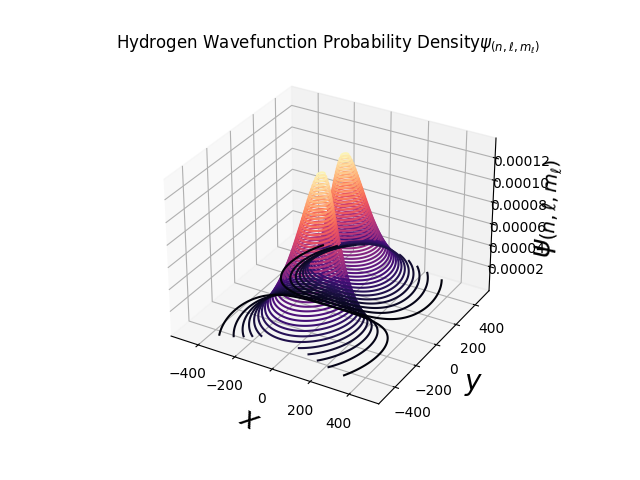
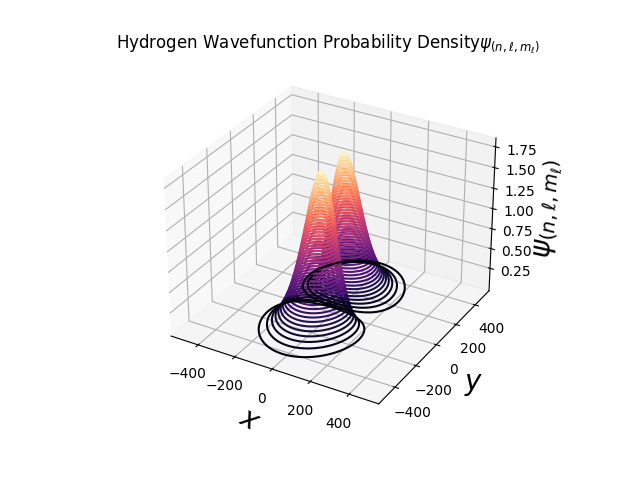
Changed error in function call for example

Changed region(s): [[0.25, 0.1875, 0.875, 0.7812], [0.25, 0.625, 0.2812, 0.6562]]

diff --git a/hydrogen_wavefunction.py b/hydrogen_wavefunction.py
@@ -143,4 +143,5 @@ main_Plot_Wavefunction(np.real(complex_Wave_Function(n, l, ml)), 'Real')
 main_Plot_Wavefunction(np.imag(complex_Wave_Function(n, l, ml)), 'Complex')
 
 #Probability Density Plot
-main_Plot_Wavefunction(np.imag(complex_Wave_Function(n, l, ml)), 'Probability Density')
+main_Plot_Wavefunction(probability_Density(complex_Wave_Function(n, l, ml)), 'Probability Density')
+
